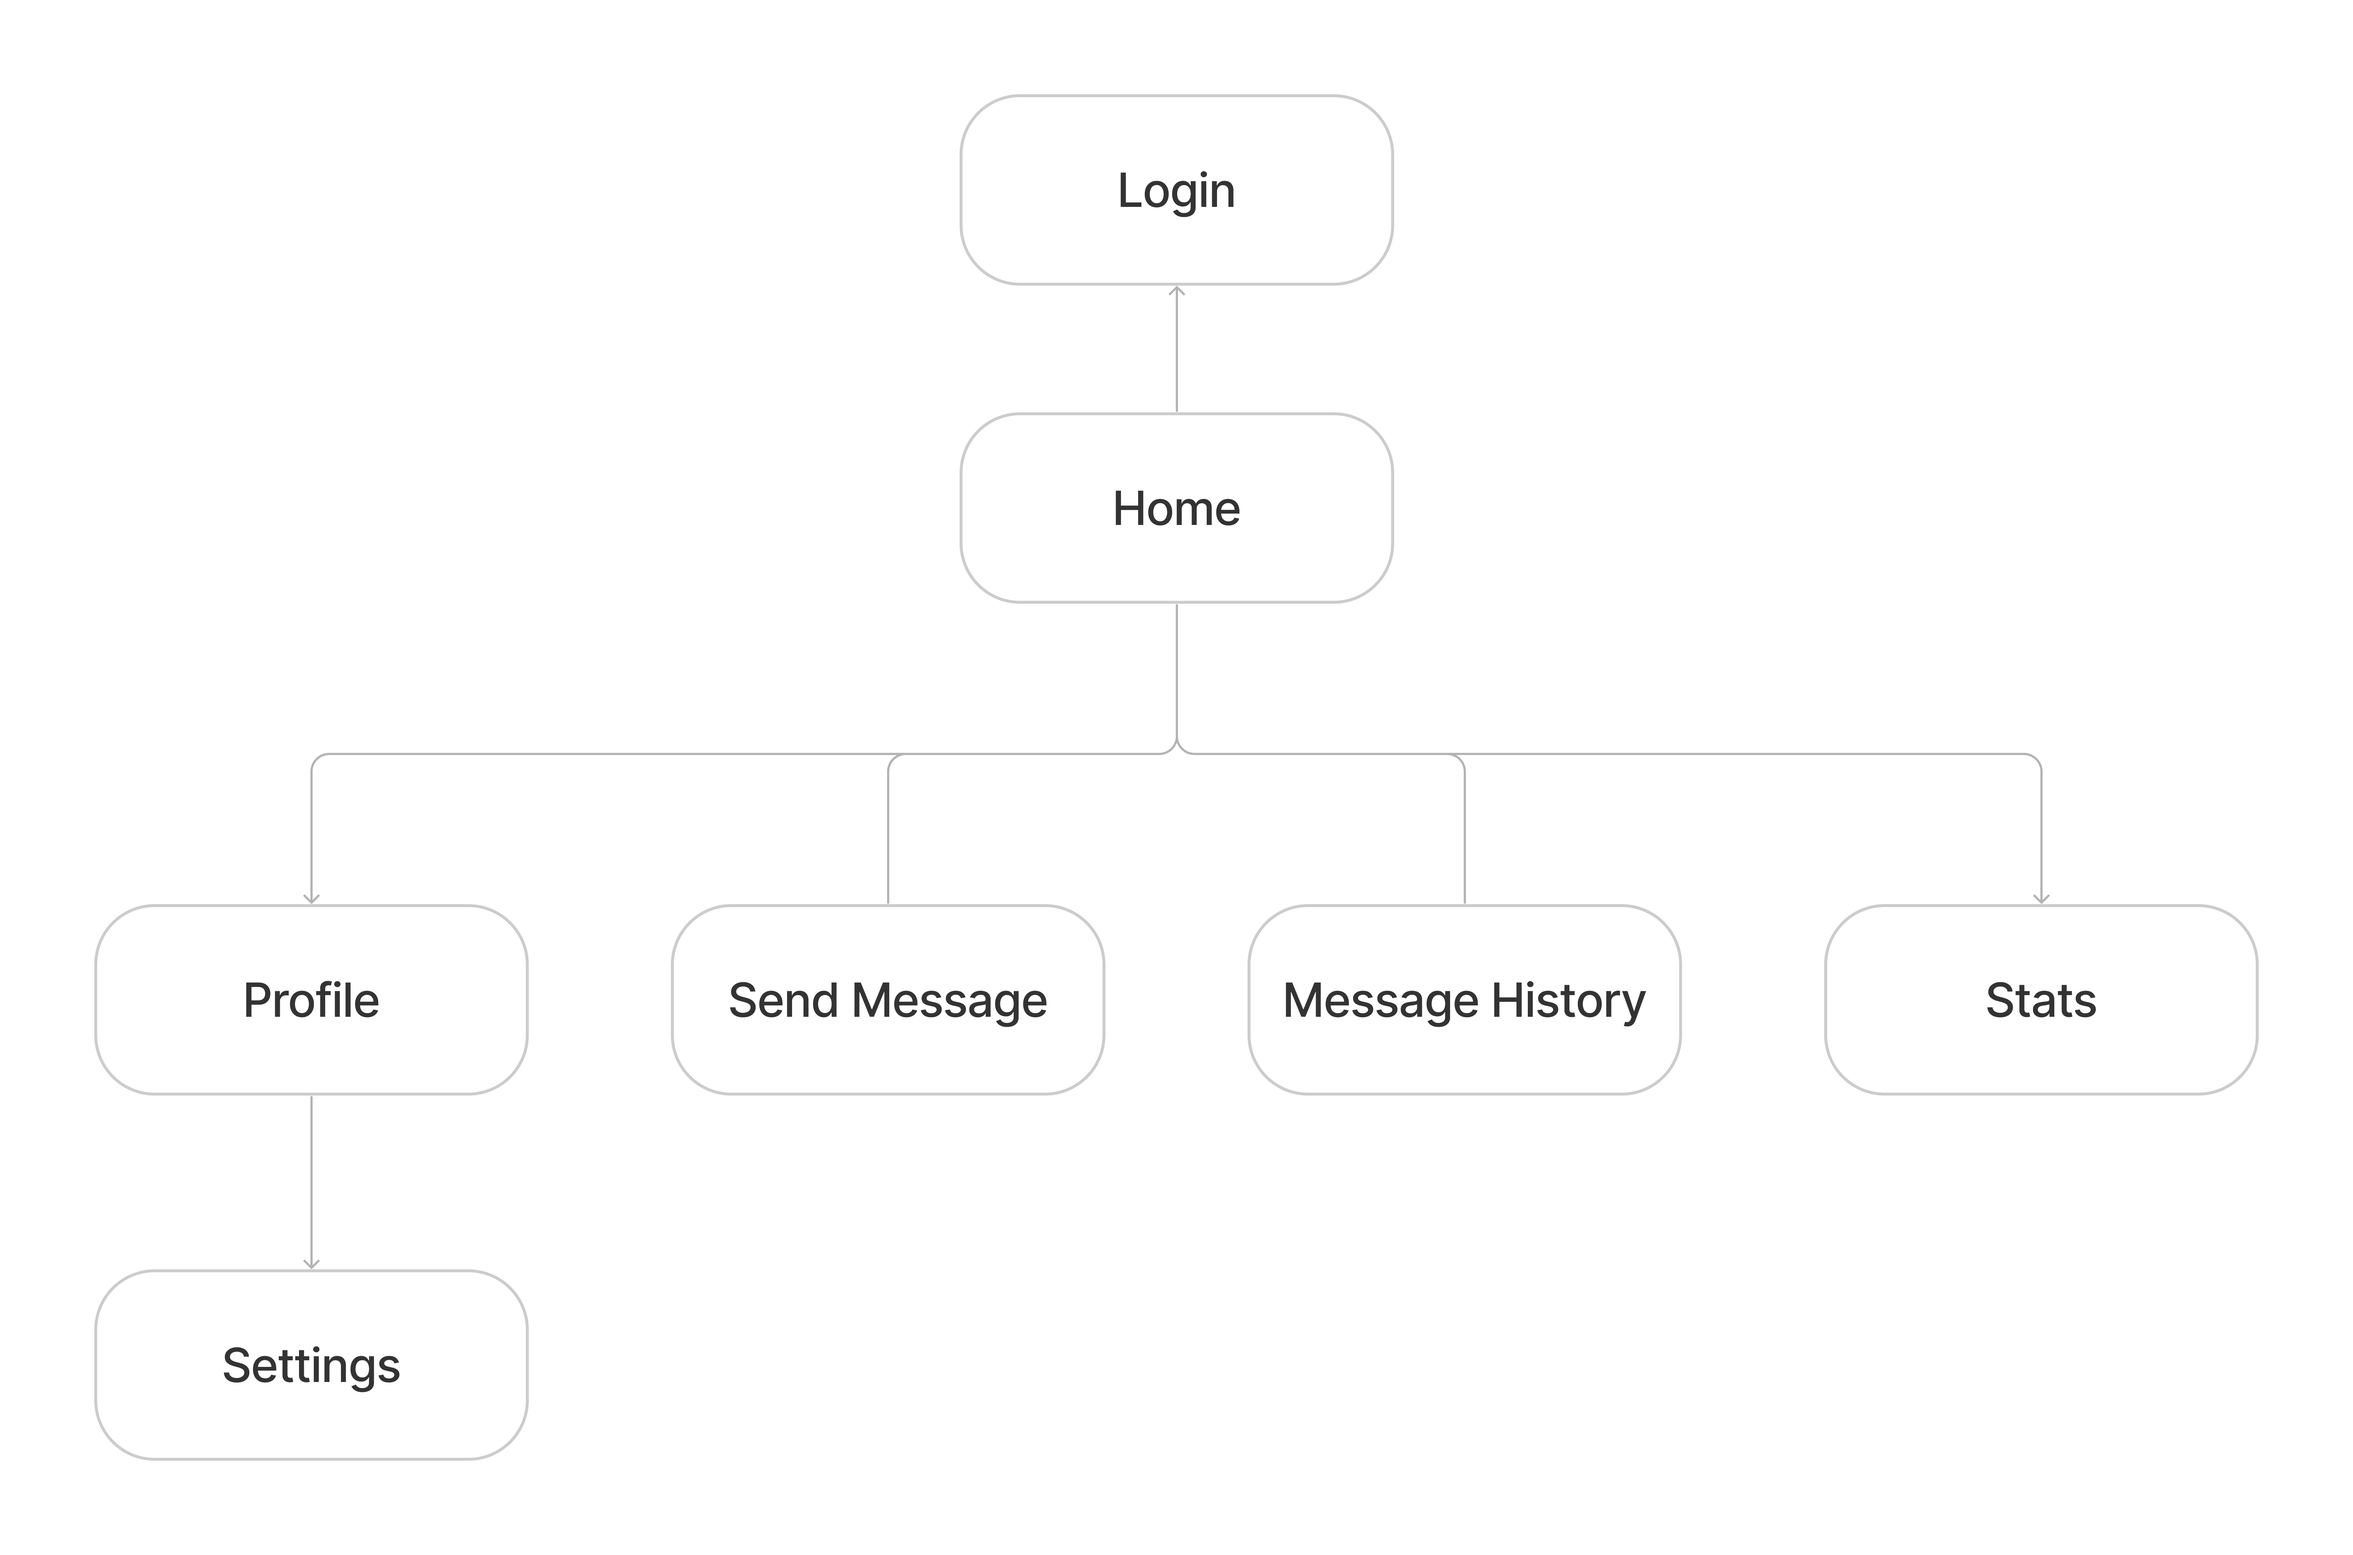
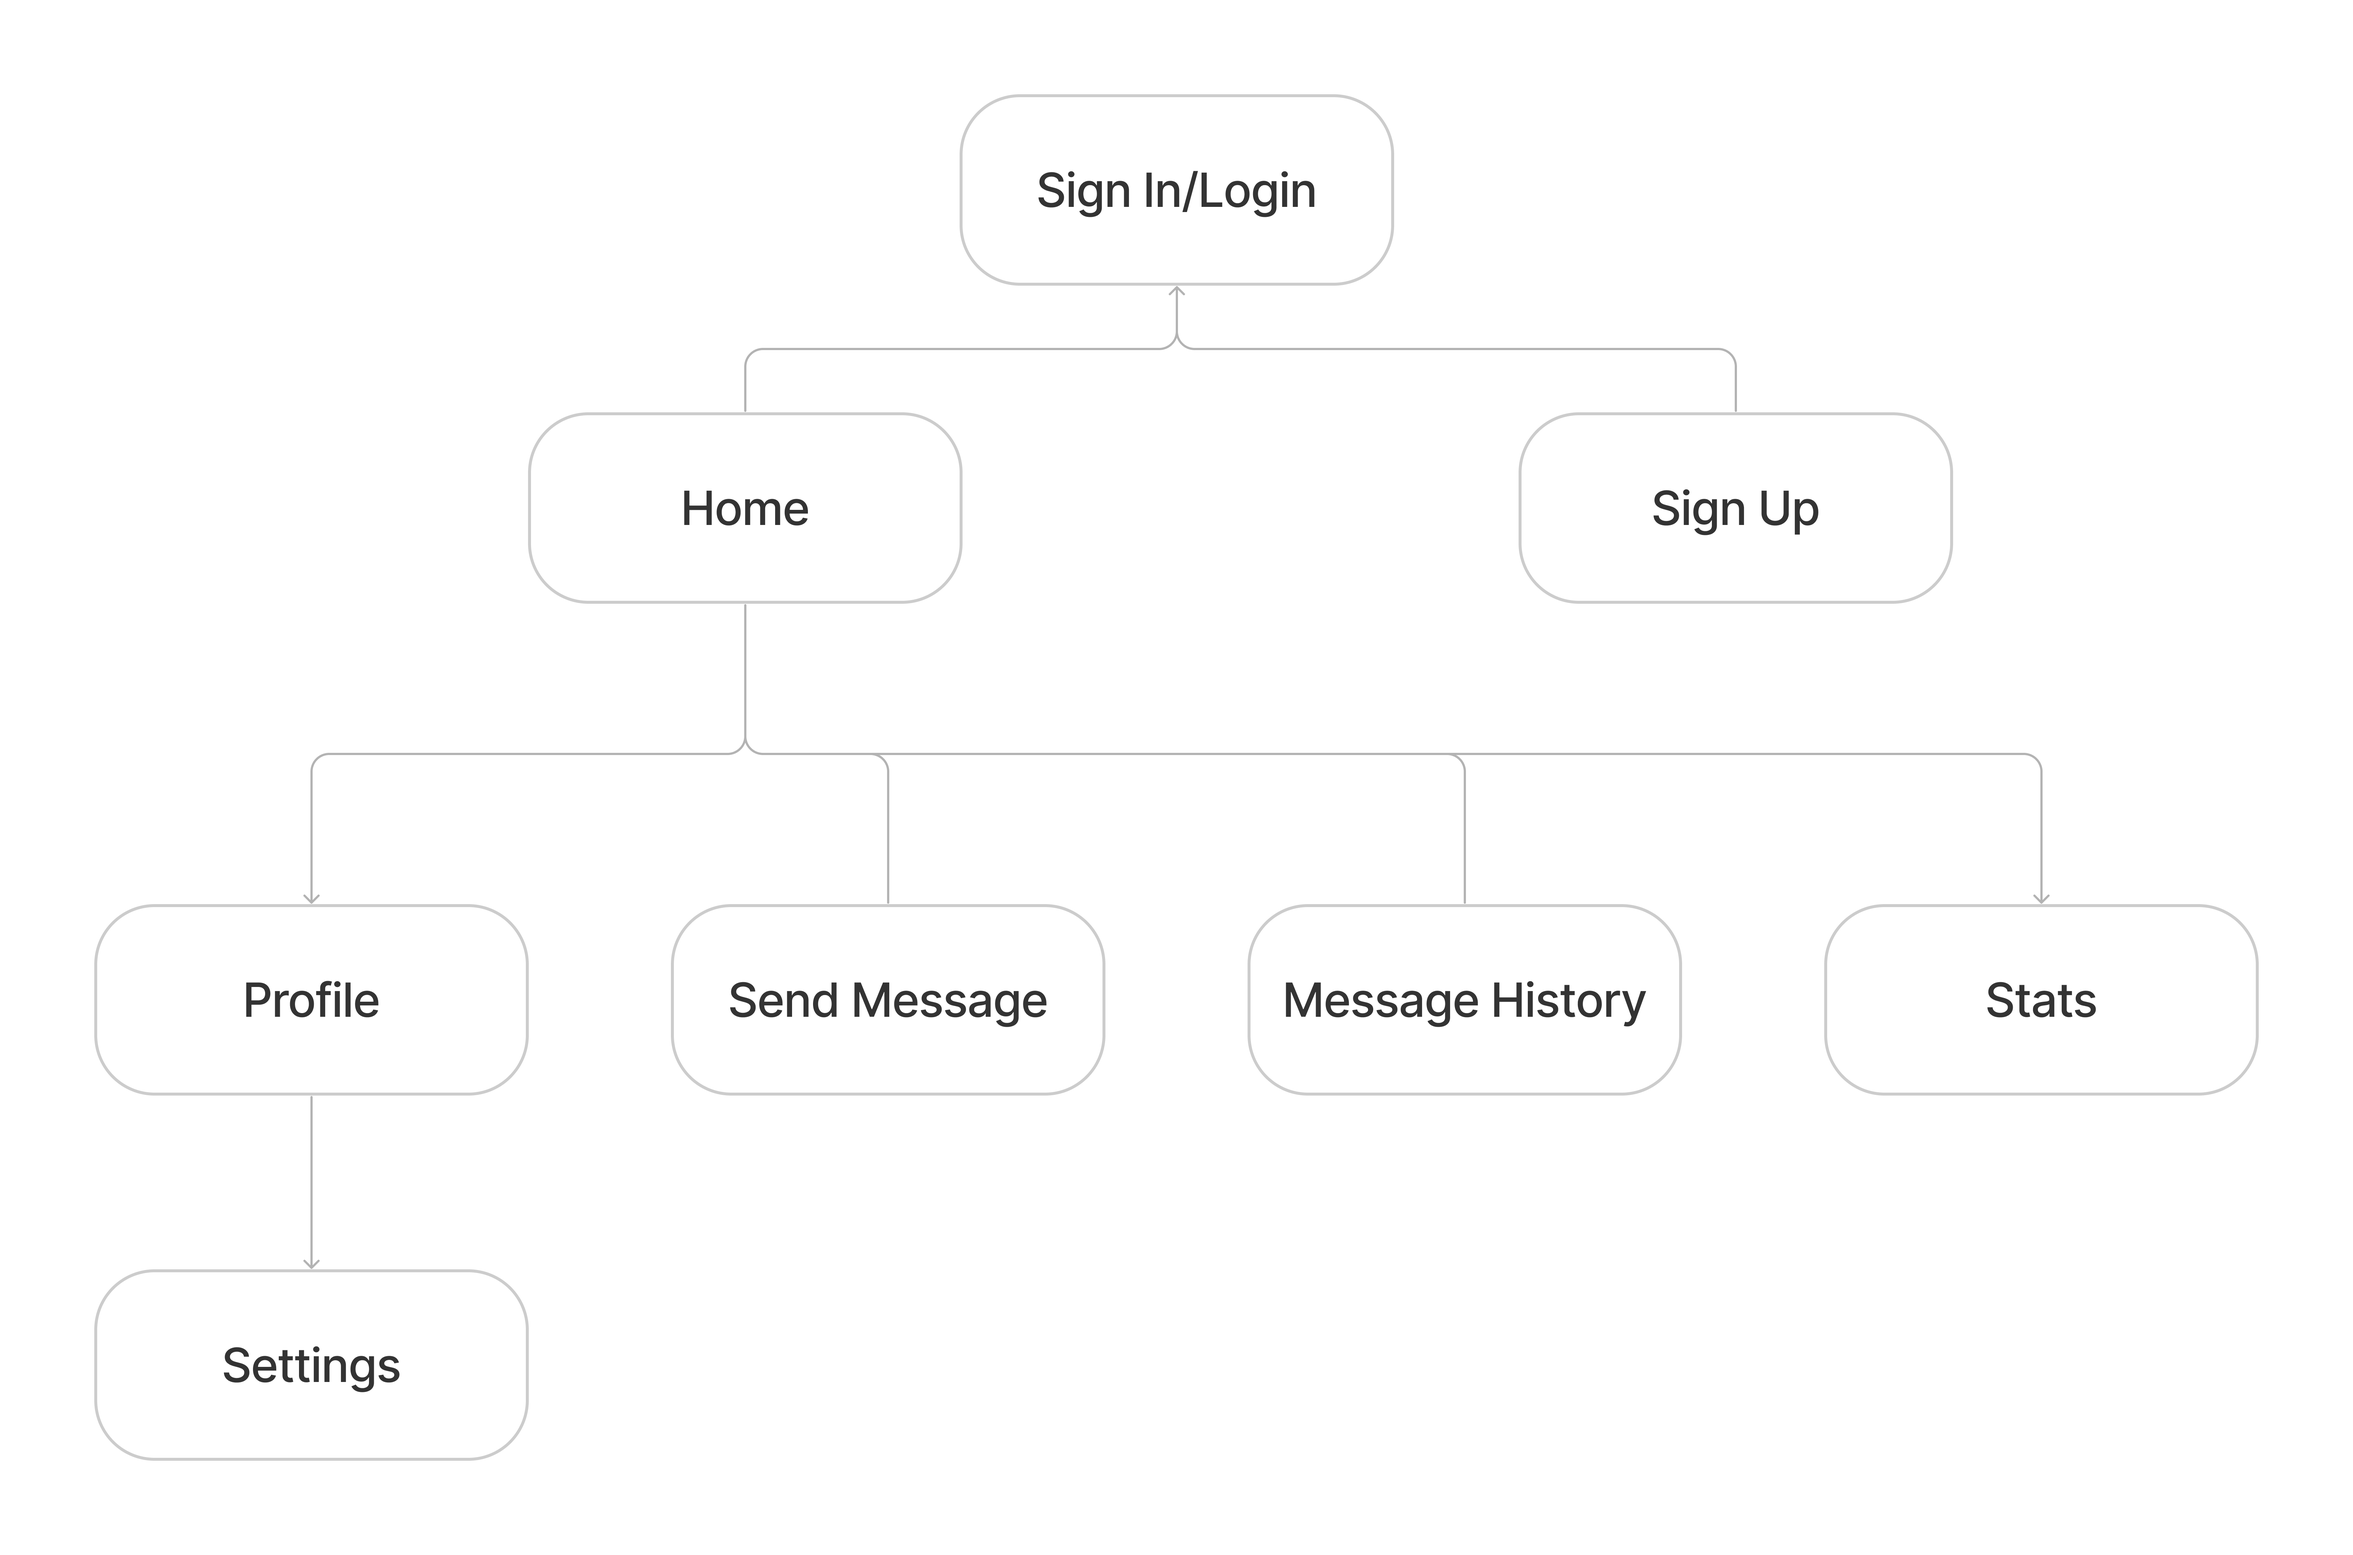
adding updatd app map, sign-in pages to the repo

diff --git a/ux-design/wireframes/README.md b/ux-design/wireframes/README.md
@@ -1,0 +1,55 @@
+# Wireframes 
+
+We note the different pages of our wireframe below.
+
+- Sign In Page
+
+<img src="./Sign-In-Page.png" alt="Sign In" width="33%"/>
+
+<br>
+
+- Sign Up Page
+
+<img src="./Sign-Up-Page.png" alt="Sign Up" width="33%"/>
+
+- Home Page
+
+<img src="./Home-Page.png" alt="Home" width="33%"/>
+
+<br>
+
+- New Message Page
+
+<img src="./New-Message-Page.png" alt="New Message" width="33%"/>
+
+<br>
+
+- Message History
+
+<img src="./History.png" alt="Message History" width="33%"/>
+
+<br>
+
+- Stats
+
+<img src="./Stats.png" alt="Stats" width="33%"/>
+
+<br>
+
+- Profile
+
+<img src="./Profile.png" alt="Profile" width="33%"/>
+
+<br>
+
+- Settings Page
+
+<img src="./Settings-Page.png" alt="Settings" width="33%"/>
+
+<br>
+
+- Sign-Up Page
+
+<img src="./Sign-up%20Page.png" alt="Settings" width="33%"/>
+
+<br>

diff --git a/ux-design/UX-DESIGN.md b/ux-design/UX-DESIGN.md
@@ -59,3 +59,9 @@ We note the different pages of our wireframe below.
 <img src="./wireframes/Settings-Page.png" alt="Settings" width="33%"/>
 
 <br>
+
+- Sign-Up Page
+
+<img src="./wireframes/Sign-up%20Page.png" alt="Settings" width="33%"/>
+
+<br>
